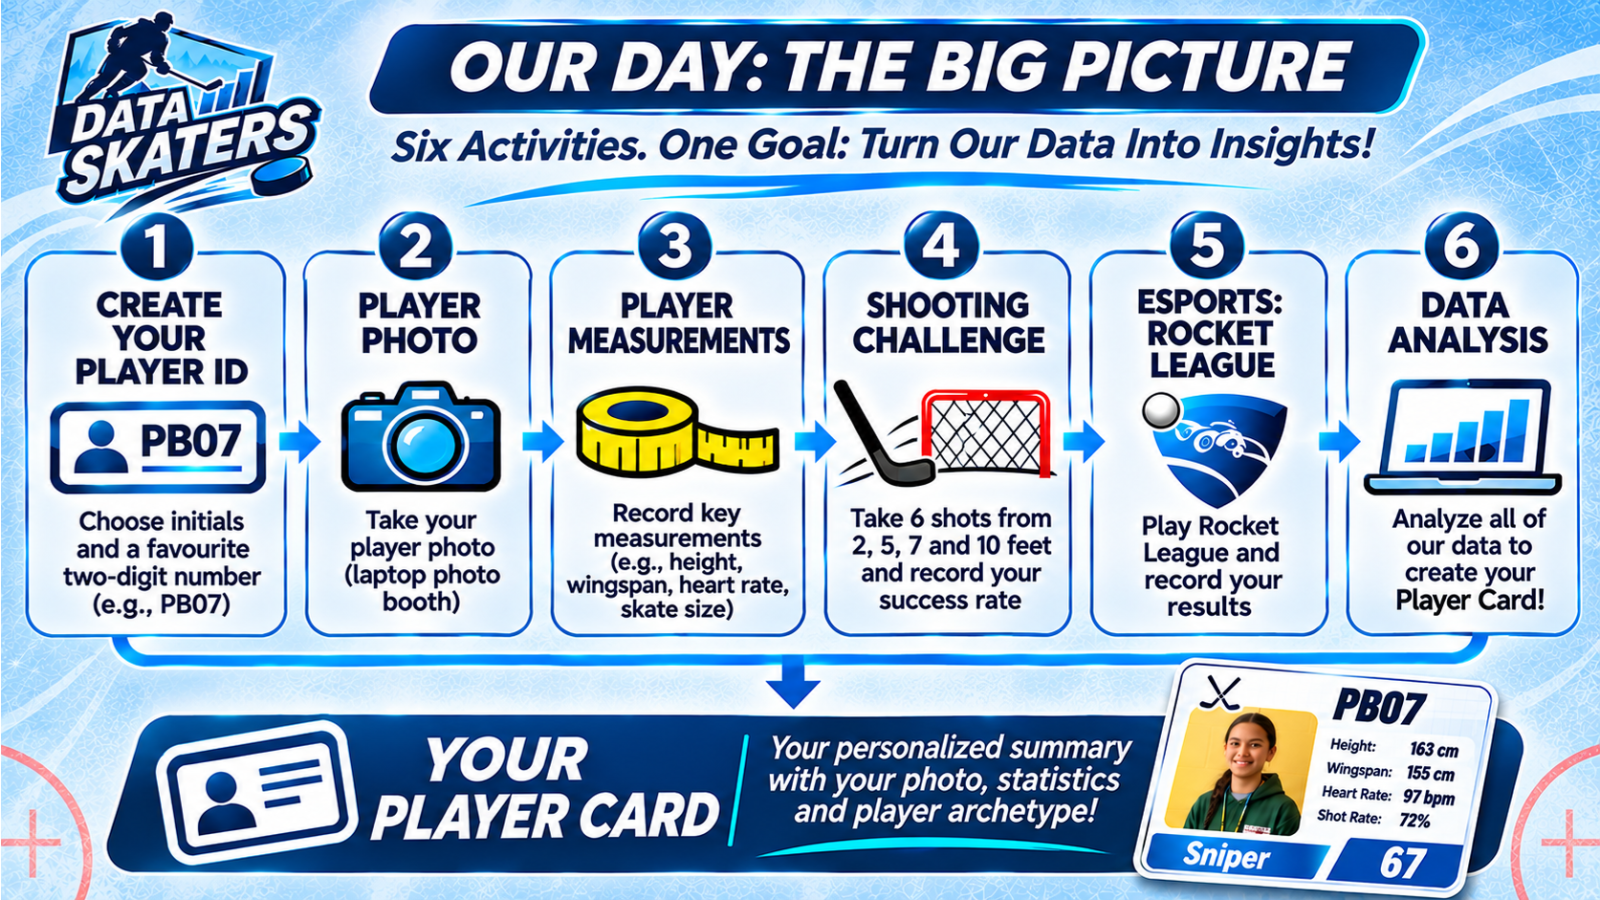
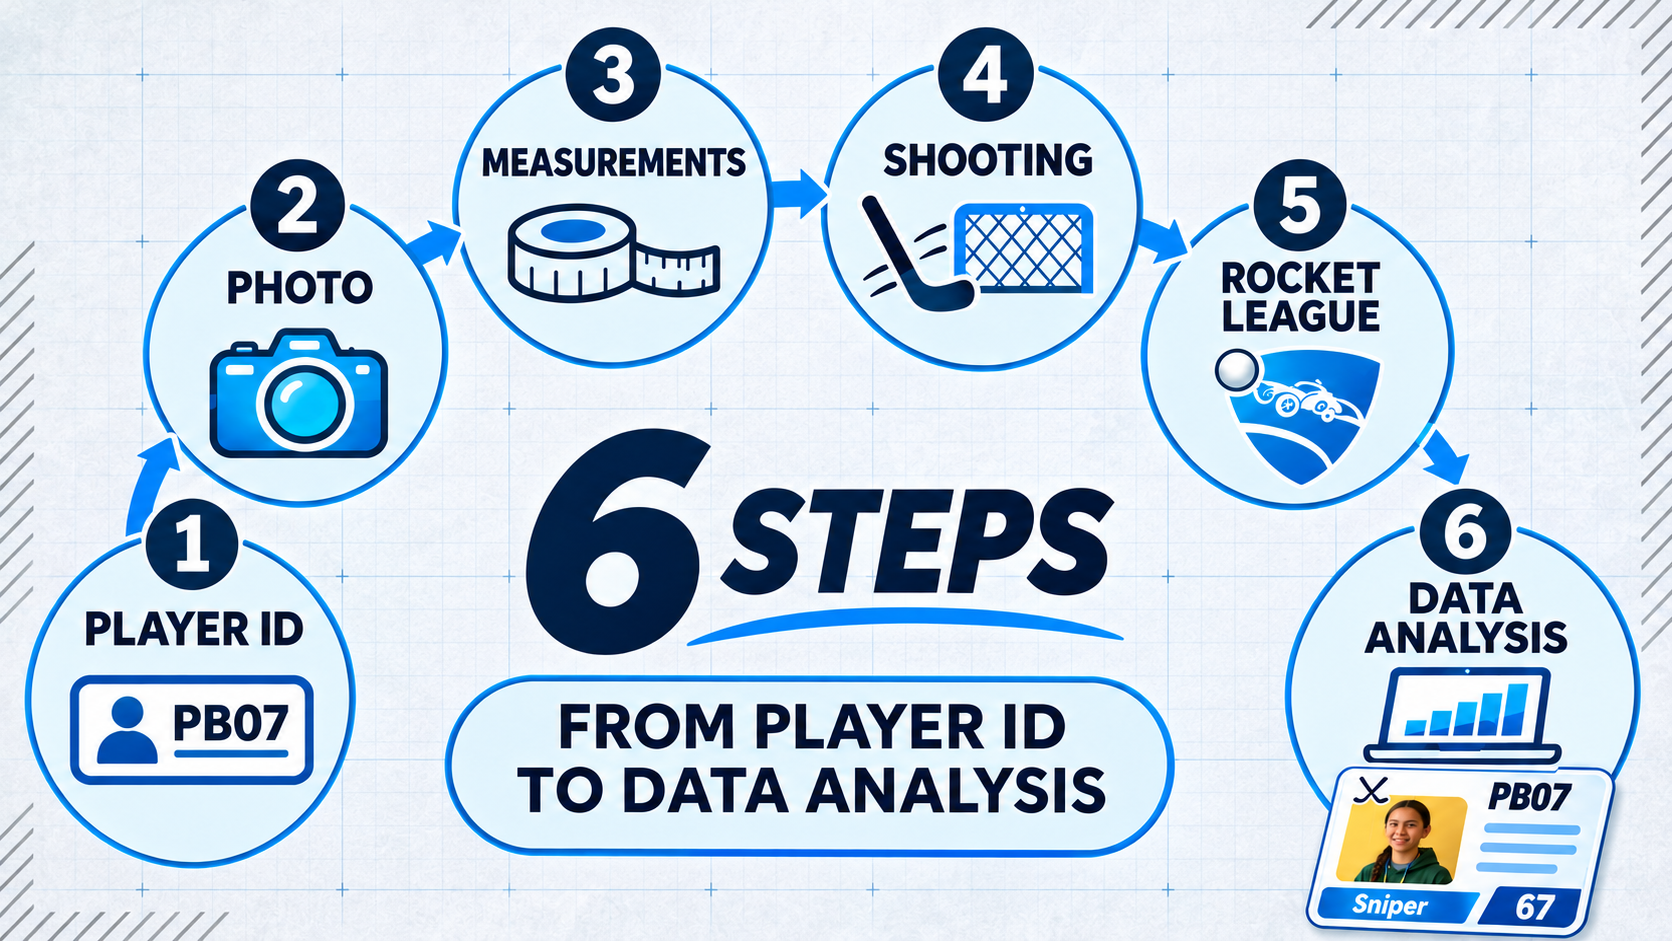
Update slide 5 images and prompts for consistency and clarity

diff --git a/prompts.md b/prompts.md
@@ -1,3 +1,23 @@
+## 2026-11-20T11:17:47-0500
+
+Goal: Match slide 5's background to the existing deck.
+
+Prompt summary: Replace the plain white background on the simplified slide 5 with a light blueprint-grid and paper-texture treatment inspired by the other slides, while preserving the six-step layout and player-card thumbnail.
+
+Hostname: m4-mini
+Active agent: Codex
+Technical context: Updated both `facilitators-guide/images/slide-05.png` and `docs/images/slide-05.png`.
+
+## 2026-11-20T11:11:12-0500
+
+Goal: Create less-busy alternatives for slide 5.
+
+Prompt summary: Design two simplified slide images that focus on the six activity segments, remove the large title bar, and retain a small player-card thumbnail showing the final objective.
+
+Hostname: m4-mini
+Active agent: Codex
+Technical context: Saved the generated options as `docs/images/slide-05A.png` and `docs/images/slide-05B.png`.
+
 ## 2026-11-19T10:56:30-0500
 
 Goal: Remove unnecessary source attribution from the facilitator guide.
